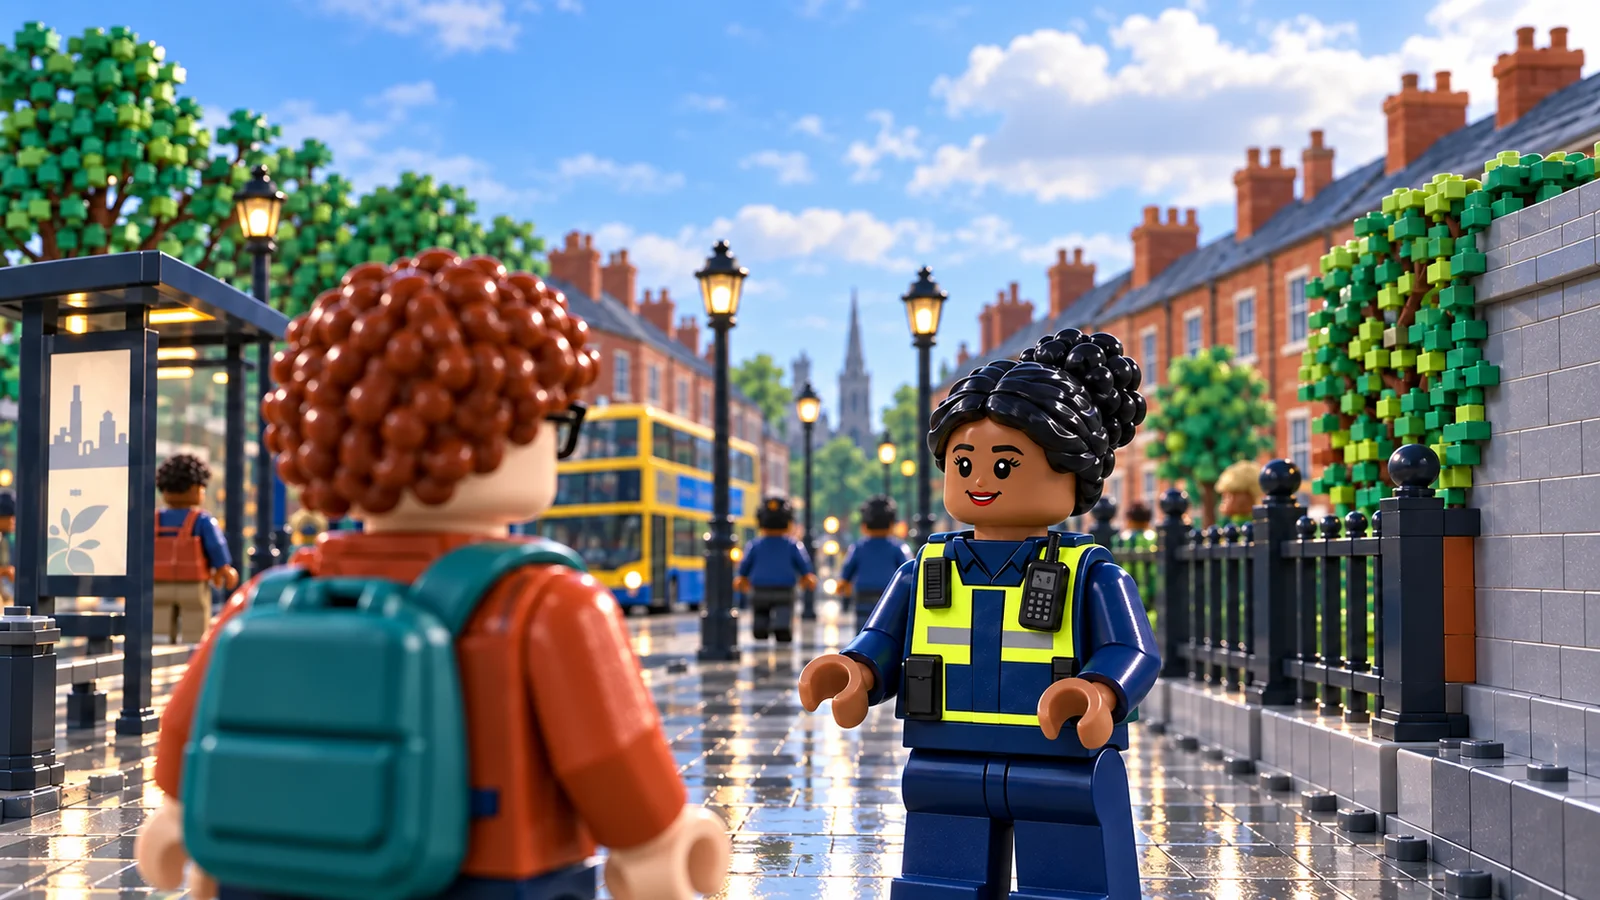
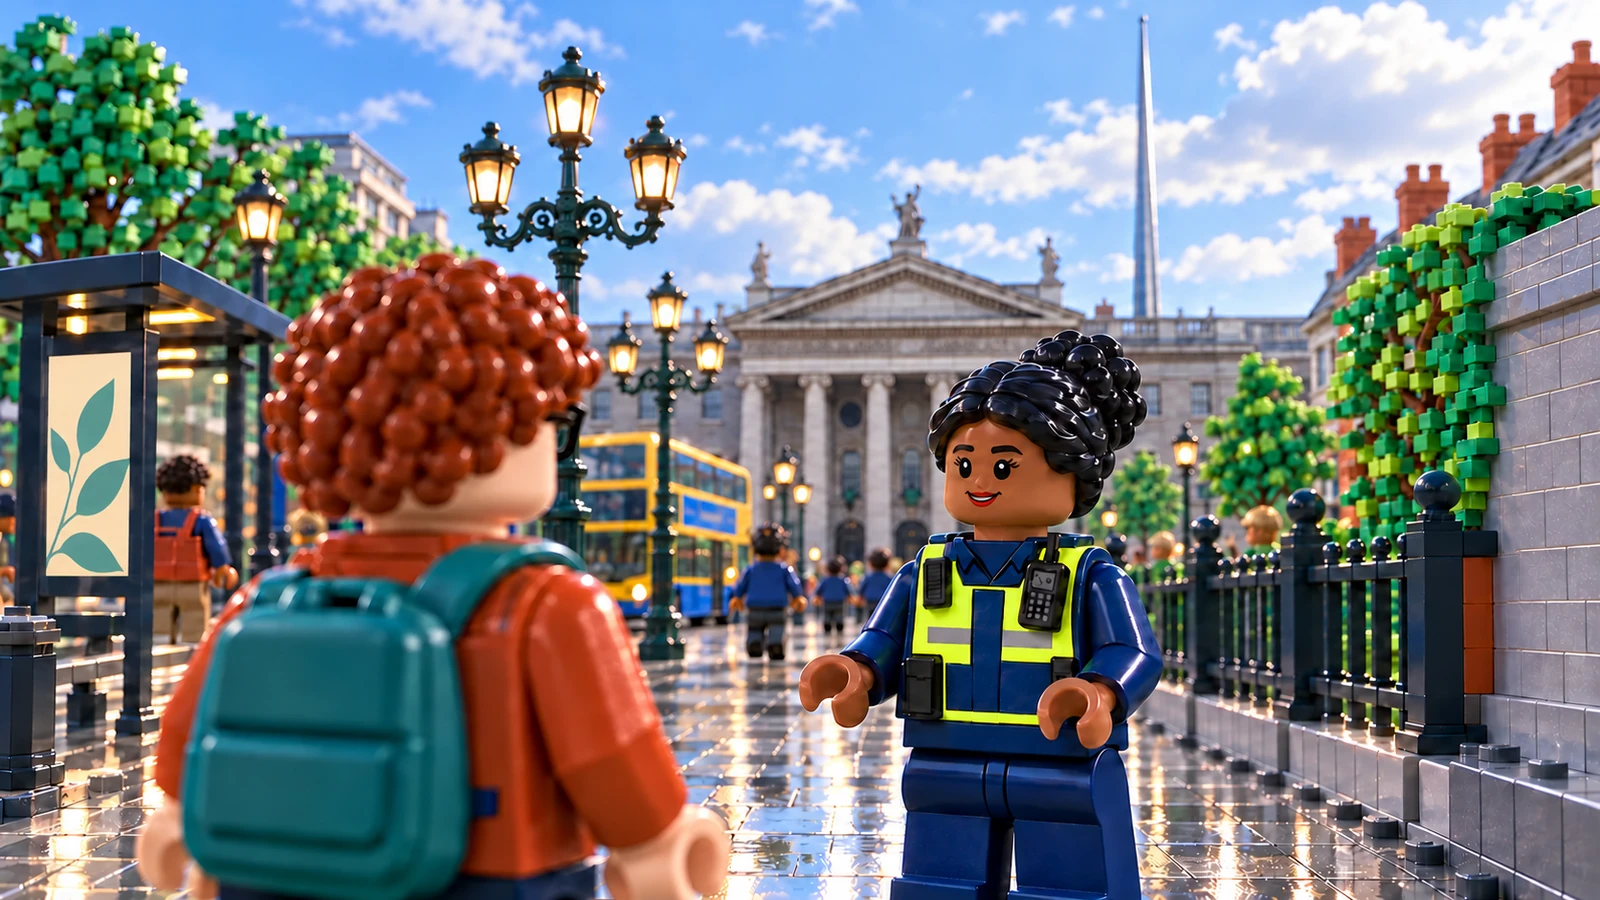
Repair scene artwork and ground outdoor illustrations in Dublin

diff --git a/encounters/scenes.css b/encounters/scenes.css
@@ -6,15 +6,12 @@
 .scene-stage:after{content:"";position:absolute;inset:60% 0 0;background:linear-gradient(transparent,#142b2826);pointer-events:none}
 .scene-actor{position:absolute;bottom:7%;width:43%;aspect-ratio:1;z-index:2}
 .scene-actor--public{left:5%}.scene-actor--garda{right:5%}
-.scene-actor:before{content:"";position:absolute;width:64%;height:8%;bottom:0;left:18%;background:#101d2380;filter:blur(6px);border-radius:50%}
+.scene-actor:before{content:"";position:absolute;width:56%;height:4%;bottom:2%;left:22%;background:#101d2340;filter:blur(4px);border-radius:50%}
 .scene-sprite{position:relative;display:block;width:100%;height:100%;overflow:hidden}
 .scene-sprite>img{position:absolute;width:600%;height:300%;max-width:none;opacity:0;pointer-events:none}
 .scene-sprite>img.is-visible{opacity:1}
-.scene-prop{position:absolute;left:43%;bottom:5%;width:17%;aspect-ratio:1;overflow:hidden;z-index:3}
-.scene-prop>img{position:absolute;width:300%;height:200%;max-width:none}
-.scene-setting{position:absolute;top:12px;left:12px;right:12px;z-index:4;width:fit-content;max-width:calc(100% - 24px);padding:7px 12px;border-radius:10px;background:#fbfcf8ed;color:#173d3b;font-size:.75rem;line-height:1.45;font-weight:700;box-shadow:0 2px 12px #122e2715}
+.scene-setting{padding:9px 14px;border-bottom:1px solid #c5d5cf;background:#f5f7f4;color:#173d3b;font-size:.75rem;line-height:1.5;font-weight:700}
 .scene-location--public{right:50%}.scene-location--garda{left:50%}
-.scene-stage--separate .scene-prop{left:19%;bottom:6%;width:14%}
 .scene-divider{position:absolute;top:0;bottom:0;left:calc(50% - 3px);width:6px;background:#fff;z-index:3}
 .encounter-scene figcaption{padding:13px 16px 15px}
 .scene-cast-names{display:flex;justify-content:space-between;gap:16px}
@@ -32,7 +29,7 @@
 .legacy-scene{max-width:720px;margin:0 auto 24px}
 .scene-feedback-preview{display:none}
 @media(min-width:1000px){.paired-game>.story{position:sticky;top:16px}}
-@media(max-width:660px){.story>.encounter-scene{margin-left:-12px;margin-right:-12px}.scene-setting{font-size:.6875rem;top:8px;left:8px;right:8px;padding:5px 9px;max-width:calc(100% - 16px)}.encounter-scene figcaption{padding:11px 12px}.scene-cast-names strong{font-size:.8125rem}.scene-moment{font-size:.8125rem!important}}
+@media(max-width:660px){.story>.encounter-scene{margin-left:-12px;margin-right:-12px}.scene-setting{font-size:.6875rem;padding:8px 12px}.encounter-scene figcaption{padding:11px 12px}.scene-cast-names strong{font-size:.8125rem}.scene-moment{font-size:.8125rem!important}}
 @media(max-width:900px){.scene-feedback-preview{display:block;margin:0 0 20px}.scene-feedback-preview .encounter-scene{margin:0}.scene-feedback-preview .scene-stage{aspect-ratio:16/9}.scene-feedback-preview .scene-moment{display:none}}
 @media(prefers-reduced-motion:no-preference){.scene-stage{animation:scene-arrive .2s ease-out}@keyframes scene-arrive{from{opacity:.65}to{opacity:1}}}
 @media(forced-colors:active){.encounter-scene,.scene-setting{border:1px solid CanvasText}.scene-setting,.encounter-scene figcaption,.scene-cast-names>span,.scene-moment{background:Canvas;color:CanvasText!important}.scene-cast-names>span>span,.scene-moment>span:first-child{color:CanvasText}.scene-divider{background:CanvasText}}

diff --git a/garda/index.html b/garda/index.html
@@ -9,16 +9,16 @@
 <link rel="icon" href="../assets/brand/favicon-hexagon.png" type="image/png">
 <link rel="stylesheet" href="./styles.css">
 <link rel="stylesheet" href="../encounters/styles.css">
-<link rel="stylesheet" href="../encounters/scenes.css">
+<link rel="stylesheet" href="../encounters/scenes.css?v=scene-art-2">
 <link rel="stylesheet" href="../accessibility/styles.css">
 <link rel="stylesheet" href="../accessibility/perspectives.css">
 <link rel="stylesheet" href="../accessibility/responsive.css">
-<script type="module" src="./app.mjs?v=context-icons-1"></script>
+<script type="module" src="./app.mjs?v=scene-art-2"></script>
 <link rel="stylesheet" href="../assets/brand/landing.css?v=full-scenes-1">
 <link rel="stylesheet" href="../assets/brand/buttons.css?v=learning-flow-2">
 <link rel="stylesheet" href="../encounters/refinements.css?v=learning-flow-2">
 <link rel="stylesheet" href="../locales/styles.css?v=site-languages-1">
-<link rel="stylesheet" href="../assets/brand/enhancements.css?v=footer-1">
+<link rel="stylesheet" href="../assets/brand/enhancements.css?v=scene-art-2">
 <link rel="stylesheet" href="../learning/about.css?v=pedagogy-2">
 <link rel="stylesheet" href="../assets/brand/controls.css?v=controls-1">
 <link rel="stylesheet" href="../assets/brand/how-it-works.css?v=how-to-2">

diff --git a/index.html b/index.html
@@ -9,16 +9,16 @@
 <link rel="icon" href="./assets/brand/favicon-hexagon.png" type="image/png">
 <link rel="stylesheet" href="./styles.css">
 <link rel="stylesheet" href="./encounters/styles.css">
-<link rel="stylesheet" href="./encounters/scenes.css">
+<link rel="stylesheet" href="./encounters/scenes.css?v=scene-art-2">
 <link rel="stylesheet" href="./accessibility/styles.css">
 <link rel="stylesheet" href="./accessibility/perspectives.css">
 <link rel="stylesheet" href="./accessibility/responsive.css">
-<script type="module" src="./app.mjs?v=context-icons-1"></script>
+<script type="module" src="./app.mjs?v=scene-art-2"></script>
 <link rel="stylesheet" href="./assets/brand/landing.css?v=full-scenes-1">
 <link rel="stylesheet" href="./assets/brand/buttons.css?v=learning-flow-2">
 <link rel="stylesheet" href="./encounters/refinements.css?v=learning-flow-2">
 <link rel="stylesheet" href="./locales/styles.css?v=site-languages-1">
-<link rel="stylesheet" href="./assets/brand/enhancements.css?v=footer-1">
+<link rel="stylesheet" href="./assets/brand/enhancements.css?v=scene-art-2">
 <link rel="stylesheet" href="./learning/about.css?v=pedagogy-2">
 <link rel="stylesheet" href="./assets/brand/controls.css?v=controls-1">
 <link rel="stylesheet" href="./assets/brand/how-it-works.css?v=how-to-2">

diff --git a/assets/brand/enhancements.css b/assets/brand/enhancements.css
@@ -346,7 +346,6 @@ main details[open]>summary{color:var(--deep)}
  }
  [data-motion="scene"] .scene-location,
  [data-motion="scene"] .scene-sprite,
- [data-motion="scene"] .scene-prop,
  img[data-motion="scene"],img[data-motion="reveal"]{
   animation:ui-art-arrive var(--ui-step-time) var(--ui-ease);
  }

diff --git a/docs/visual-audit-2026-10-29.md b/docs/visual-audit-2026-10-29.md
@@ -1,0 +1,112 @@
+# Visual audit and artwork repairs · 29 October 2026
+
+Reviewed all six scene backgrounds, both homepage illustrations, the character sheets and their use across all 59 stages. The review covered composition, object placement, scale, cutout edges, caption collisions and Irish context.
+
+## Repairs
+
+| Finding | Coverage | Resolution |
+| --- | --- | --- |
+| Loose objects used as oversized floor overlays | 7 phone, 5 bag, 13 notebook, 15 forms, 2 toolbox and 3 laptop scenes | Removed all 45 loose overlays from the shared renderer and its scene directions. The written scenario retains every relevant fact. |
+| Coloured fringe and background remnants on character cutouts | Listening, speaking and reflecting atlases; Aisling's dedicated four-pose atlas | Cleaned through built-in image editing, preserving figure identities, poses, wardrobe, wheelchair and cane. New alpha-preserving WebP assets use `-clean` filenames. |
+| Location labels could overlap hair at narrow widths | Every illustrated stage, feedback preview and recap | Moved the label into its own bar above the artwork. |
+| Heavy oval shadows under composited figures | Every character pair | Reduced shadow width, height and opacity. |
+| Red British telephone box in the street background | Every use of `street.webp` | Removed it completely and replaced the generic distant streetscape with Dublin landmarks. |
+| Generic outdoor landmarks and lamp silhouettes | Street, bus stop, square and both homepage perspectives | Added the GPO and Spire, Ha'penny Bridge and lamps informed by O'Connell Bridge references. Corrected extra generated statues and removed generic skylines from shelter posters. |
+
+The three indoor backgrounds (station, advice room and meeting room) were visually inspected. Their neutral furnishings, abstract wall art and windows contain no identified British-specific landmarks, telephone boxes, postboxes, flags or transit symbols. They remain unchanged.
+
+These are fictional, stylised learning illustrations using recognisable Dublin features, not a claim of a surveyed camera location or an exact streetscape reconstruction. Landmark identity and characteristic forms were checked against the references below.
+
+## Sources used for the Irish setting
+
+- [GPO · National Inventory of Architectural Heritage](https://www.buildingsofireland.ie/ga/building-of-the-month/the-general-post-office-oconnell-street-dublin-1/)
+- [GPO · Visit Dublin](https://www.visitdublin.com/general-post-office)
+- [Spire · Visit Dublin](https://www.visitdublin.com/the-spire)
+- [Ha'penny Bridge · National Inventory of Architectural Heritage](https://www.buildingsofireland.ie/buildings-search/building/50060550/hapenny-bridge-liffey-bridge-dublin-co-dublin)
+- [O'Connell Bridge and lamp standards · National Inventory of Architectural Heritage](https://www.buildingsofireland.ie/buildings-search/building/50060552/oconnell-bridge-dublin-1-2-dublin)
+- [O'Connell Street conservation area · Dublin City Council](https://www.dublincity.ie/sites/default/files/media/file-uploads/2018-05/01_O_Connell_Street_ACA__adopted_09.07.01.pdf)
+- [Photographic lamp reference](https://media.belvederehoteldublin.com/image/upload/f_auto%2Cg_auto%2Cc_auto%2Cw_3840%2Cq_auto/v1709209511/Uploads/Belvedere/O_Connell_Street_Bridge_Dublin_fb7cef8a65.jpg)
+
+Reference photographs were used to guide architecture and street furniture; they are not shipped as site assets.
+
+## Production assets
+
+- `assets/scenes/{listening,speaking,reflecting}-clean.webp`
+- `assets/characters/aisling-hijab-clean.webp`
+- `assets/scenes/{street,bus-stop,square}.webp`
+- `assets/heroes/{public,garda}-{480,960,1600}.webp`
+
+All edits used the built-in OpenAI image-generation tool. Final assets were converted to WebP; no image generation occurs during play. Responsive hero variants are produced from the same approved image for each perspective.
+
+## Final GPO detail refinement
+
+Use case: precise-object-edit. Image 1 is the illustration to edit. Image 2 is the GPO architectural reference. Fix ONLY the missing THIRD rooftop statue on the right-hand end of the GPO's triangular pediment, at about 66% across and 30% down image 1, above and behind the Garda's head. The roof needs exactly three statues: existing left corner figure, existing central apex figure, and restore one matching stone figure on the right corner at the same baseline/scale as the left one. Do NOT put a statue on the distant far-right roof wing. Keep ALL other pixels as unchanged as possible: characters' faces, hair, bodies, uniforms, backpack, positions, hands, poster with leaves, Dublin lamps, Spire, bus, buildings, lighting, proportions and framing. Preserve polished brick-toy illustration style. No text, no red phone boxes, no postboxes, no British landmarks.
+
+## Validation
+
+- Visually reviewed all 59 illustrated stages with rotating cast members covering all 18 character choices.
+- Reviewed street and private-advice layouts at 320px and 390px, including the cane, wheelchair and Aisling.
+- Existing scene coverage renders every stage with all 81 public/Garda character pairs.
+- Regression coverage rejects loose prop markup and checks that setting labels remain above the picture at phone, tablet and desktop widths.
+- Learning content, choices, scores, character IDs and saved-progress contracts are unchanged.
+
+## Character cleanup prompt
+
+For each of the listening, speaking and reflecting atlases and Aisling's dedicated atlas:
+
+> Repair the cutout quality only. Remove coloured halos, stray pixels, opaque fringe and old background remnants. Preserve every character's identity, skin colour, hair, wardrobe, pose, wheelchair, cane and accessories. Retain the exact grid, position, size and baseline. Keep full figures inside their cells. Produce real transparent alpha with clean anti-aliased edges, including gaps between limbs and wheelchair spokes. Do not add shadows, ground, scenery, text or labels.
+
+## Irish background prompt set
+
+### street
+
+Use case: precise-object-edit. Production background repair for Stopped: Both Sides, an Irish educational website.
+Image 1 is the edit target; reference 2 is the real Irish landmark for its actual architecture only; reference 3 shows actual Dublin O'Connell Bridge lamps for their shape only. Render everything in the existing polished miniature brick/toy style of image 1, not photographic cutouts.
+Replace the red British telephone box completely with ordinary Dublin shopfront/paving. Rework the distant end of the street to show the recognisable granite GPO with its SIX-column portico and triangular pediment, and ONE slender silver Spire rising into the sky beside it. Replace existing generic single gas lamps with dark green Dublin O'Connell Bridge-style ornate three-lantern lamp standards based on reference 3. Retain the close red-brick shop facade on the left and warm evening atmosphere. Keep the bottom 45 percent broad empty level pavement and all furniture near the edges or in the distance. No characters or people.
+Setting: unmistakably Dublin, Republic of Ireland. No red telephone boxes, no red postboxes, no London buses, no London Underground signs, no British flags, no Big Ben, no Tower Bridge, no English landmark substitutes. Do not merely recolour a British phone box; remove it. No readable invented signage, no watermarks, no added interface text.
+Keep the original 16:9 landscape framing, lighting quality and coherent scale. Architecture, lamp poles and perspective must be straight and consistent, no warped bridges or floating objects. Keep all primary characters unchanged where present.
+
+### bus-stop
+
+Use case: precise-object-edit. Production background repair for Stopped: Both Sides, an Irish educational website.
+Image 1 is the edit target; reference 2 is the real Irish landmark for its actual architecture only; reference 3 shows actual Dublin O'Connell Bridge lamps for their shape only. Render everything in the existing polished miniature brick/toy style of image 1, not photographic cutouts.
+Keep the Dublin bus shelter on the left and a yellow-and-blue Dublin-style double-decker bus in the middle distance. Replace the generic church spire and distant nondescript facade with the recognisable grey granite Dublin GPO with SIX-column portico and triangular pediment, and ONE thin silver Spire beside it. Replace the generic single gas lamps with dark green Dublin ornate three-lantern standards from reference 3. Keep the bottom 45 percent broad empty pavement, no objects blocking the space where characters will be placed. No people or characters.
+Setting: unmistakably Dublin, Republic of Ireland. No red telephone boxes, no red postboxes, no London buses, no London Underground signs, no British flags, no Big Ben, no Tower Bridge, no English landmark substitutes. Do not merely recolour a British phone box; remove it. No readable invented signage, no watermarks, no added interface text.
+Keep the original 16:9 landscape framing, lighting quality and coherent scale. Architecture, lamp poles and perspective must be straight and consistent, no warped bridges or floating objects. Keep all primary characters unchanged where present.
+
+Refinement:
+
+Use case: precise-object-edit. Image 1 is the edit target. Image 2 is a factual reference for the GPO's three rooftop statues, not a style reference. Make only these precision corrections to the existing polished miniature brick/toy illustration: 1. The GPO must have exactly THREE rooftop statues, as shown in image 2: one on the central apex and one on each end of the triangular pediment. Remove every extra statue behind or outside these three. Preserve its six-column portico. 2. Replace the thick silver tower at right with a much more slender elegant silver needle representing the Spire of Dublin; no horizontal bands, base width less than half the width of one GPO column. 3. Remove the small human-shaped reflection/figure inside the bus shelter: shelter and pavement must be empty. 4. Replace the ENTIRE shelter poster artwork with a simple abstract teal leaf motif on cream, no city skyline, no towers, no text. Keep the composition, colour, lighting, aspect ratio and all other objects unchanged. This is Dublin, Ireland: no British phone boxes, red postboxes, London symbols, Big Ben or Tower Bridge. No watermarks or UI text.
+
+### square
+
+Use case: precise-object-edit. Production background repair for Stopped: Both Sides, an Irish educational website.
+Image 1 is the edit target; reference 2 is the real Irish landmark for its actual architecture only; reference 3 shows actual Dublin O'Connell Bridge lamps for their shape only. Render everything in the existing polished miniature brick/toy style of image 1, not photographic cutouts.
+Rework the setting into a quiet Dublin quayside public space. Keep the cafe at the left edge, inviting brick-built miniature style and generous clear level pavement across the bottom 45 percent. Replace the generic tall statue/column and central planter at the back with a view across the River Liffey to the unmistakable WHITE Ha'penny Bridge: ONE shallow elegant cast-iron arch and fine railings, with its own decorative overarching lamp standards as in reference 2. Keep the water behind a safe continuous stone quay parapet in the back half of the composition. Add a dark green ornate Dublin three-lantern street lamp at the edge, based on reference 3. No people, no figures, no objects scattered on the foreground. Keep the bridge at believable background scale.
+Setting: unmistakably Dublin, Republic of Ireland. No red telephone boxes, no red postboxes, no London buses, no London Underground signs, no British flags, no Big Ben, no Tower Bridge, no English landmark substitutes. Do not merely recolour a British phone box; remove it. No readable invented signage, no watermarks, no added interface text.
+Keep the original 16:9 landscape framing, lighting quality and coherent scale. Architecture, lamp poles and perspective must be straight and consistent, no warped bridges or floating objects. Keep all primary characters unchanged where present.
+
+### public-hero
+
+Use case: precise-object-edit. Production background repair for Stopped: Both Sides, an Irish educational website.
+Image 1 is the edit target; reference 2 is the real Irish landmark for its actual architecture only; reference 3 shows actual Dublin O'Connell Bridge lamps for their shape only. Render everything in the existing polished miniature brick/toy style of image 1, not photographic cutouts.
+EDIT ONLY THE BACKGROUND, preserve the two foreground characters exactly: curly red-brown hair, black spectacles, orange jacket and teal backpack on the public character, dark-haired Garda with navy uniform and high visibility vest. Preserve their identities, poses, sizes, positions and opposite-view composition. Preserve brick-toy material and warm daylight. Replace the generic distant church tower with the unmistakable grey granite GPO six-column portico and triangular pediment, and ONE thin silver Dublin Spire nearby. Replace generic black gas street lamps with dark green Dublin ornate three-lantern lamp standards as in reference 3. Keep the shelter and yellow-and-blue Dublin-style double-decker bus with coherent perspective and scale. Do not place new objects in their hands or on the foreground.
+Setting: unmistakably Dublin, Republic of Ireland. No red telephone boxes, no red postboxes, no London buses, no London Underground signs, no British flags, no Big Ben, no Tower Bridge, no English landmark substitutes. Do not merely recolour a British phone box; remove it. No readable invented signage, no watermarks, no added interface text.
+Keep the original 16:9 landscape framing, lighting quality and coherent scale. Architecture, lamp poles and perspective must be straight and consistent, no warped bridges or floating objects. Keep all primary characters unchanged where present.
+
+Refinement:
+
+Use case: precise-object-edit. Image 1 is the edit target. Image 2 is a factual reference for the GPO's three rooftop statues, not a style reference. Make only these precision corrections to the existing polished miniature brick/toy illustration: Replace ONLY the bus shelter poster at far left with a simple abstract teal leaf motif on cream. Remove the city skyline/towers from the poster completely. No text. Preserve the three-statue GPO, Spire, all lamps and ALL characters exactly; their faces, bodies, outfits, hands, positions and expressions must not change. Keep the composition, colour, lighting, aspect ratio and all other objects unchanged. This is Dublin, Ireland: no British phone boxes, red postboxes, London symbols, Big Ben or Tower Bridge. No watermarks or UI text.
+
+### garda-hero
+
+Use case: precise-object-edit. Production background repair for Stopped: Both Sides, an Irish educational website.
+Image 1 is the edit target; reference 2 is the real Irish landmark for its actual architecture only; reference 3 shows actual Dublin O'Connell Bridge lamps for their shape only. Render everything in the existing polished miniature brick/toy style of image 1, not photographic cutouts.
+EDIT ONLY THE BACKGROUND, preserve the two foreground characters exactly: curly red-brown hair, orange jacket and teal backpack on the public character viewed from behind at left; dark-haired female Garda facing us at right, navy uniform and high visibility vest. Preserve their faces, hair, identities, poses, sizes, positions, and opposite-view composition. Preserve brick-toy material and warm daylight. Replace the generic distant church tower with the unmistakable grey granite GPO six-column portico and triangular pediment, and ONE thin silver Dublin Spire nearby. Replace generic black gas street lamps with dark green Dublin ornate three-lantern lamp standards as in reference 3. Keep the shelter and yellow-and-blue Dublin-style double-decker bus with coherent perspective and scale. Do not place new objects in their hands or on the foreground.
+Setting: unmistakably Dublin, Republic of Ireland. No red telephone boxes, no red postboxes, no London buses, no London Underground signs, no British flags, no Big Ben, no Tower Bridge, no English landmark substitutes. Do not merely recolour a British phone box; remove it. No readable invented signage, no watermarks, no added interface text.
+Keep the original 16:9 landscape framing, lighting quality and coherent scale. Architecture, lamp poles and perspective must be straight and consistent, no warped bridges or floating objects. Keep all primary characters unchanged where present.
+
+Refinement:
+
+Use case: precise-object-edit. Image 1 is the edit target. Image 2 is a factual reference for the GPO's three rooftop statues, not a style reference. Make only these precision corrections to the existing polished miniature brick/toy illustration: 1. The GPO must have exactly THREE rooftop statues, as shown in image 2: one on the central apex and one on each end of the triangular pediment. Remove the extra statue on the far-right roof away from the triangular pediment. Preserve its six-column portico and all other architectural details. 2. Replace ONLY the bus shelter poster at far left with a simple abstract teal leaf motif on cream. Remove its city skyline and towers completely, no text. Preserve ALL characters exactly; their faces, bodies, outfits, hands, positions and expressions must not change. Keep the composition, colour, lighting, aspect ratio and all other objects unchanged. This is Dublin, Ireland: no British phone boxes, red postboxes, London symbols, Big Ben or Tower Bridge. No watermarks or UI text.
+

diff --git a/docs/scene-art-prompts.md b/docs/scene-art-prompts.md
@@ -1,5 +1,7 @@
 # Interaction scene artwork
 
+**Current revision:** see the [29 October 2026 visual audit](visual-audit-2026-10-29.md) for corrected character cutouts, removed loose props and Irish background references. The prompts below document the original generation; the prop atlas is no longer rendered.
+
 Created 17 September 2026 with the built-in OpenAI image-generation tool. The current cast sheet supplied the identity reference; the current public homepage hero supplied the environment style reference. Generated transparent sprite atlases are stored as WebP in `assets/scenes/`, with six backgrounds extracted into individual WebP files. No AI request occurs during play.
 
 ## Listening poses
